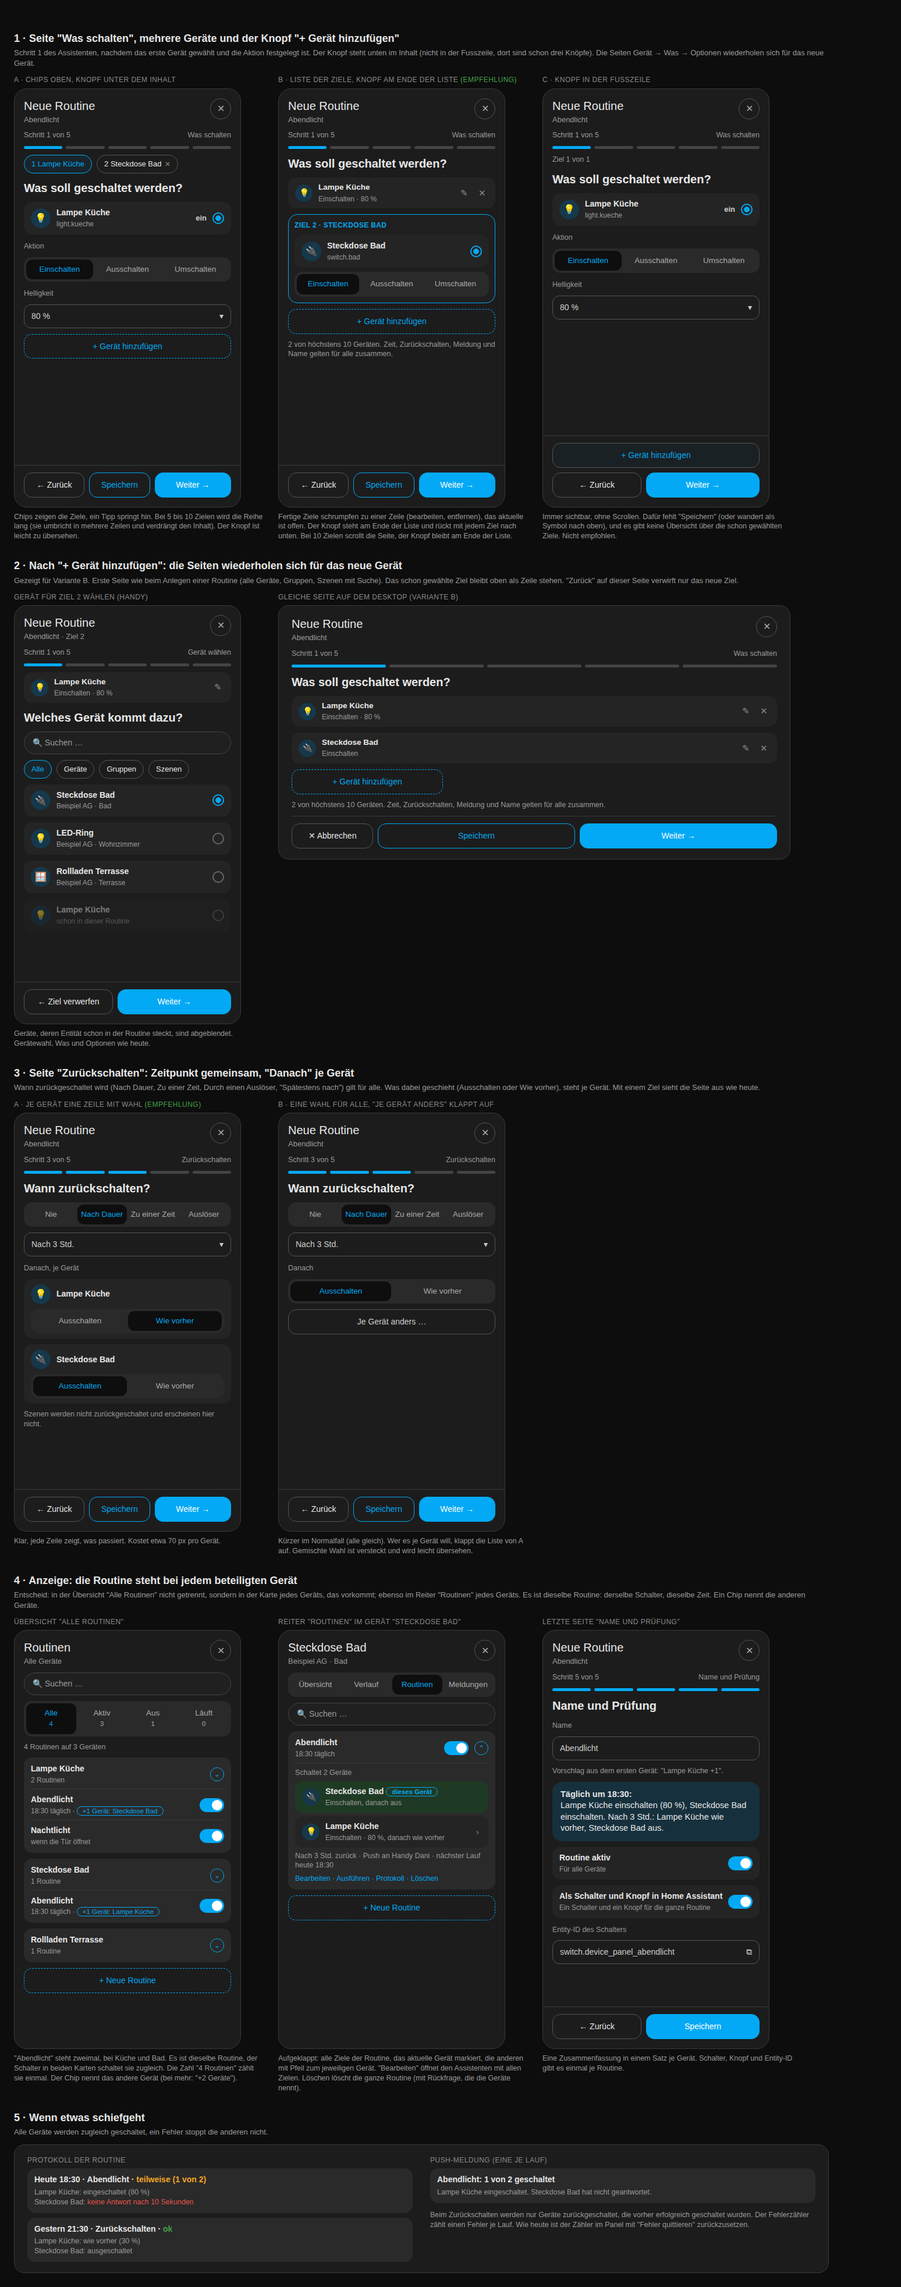
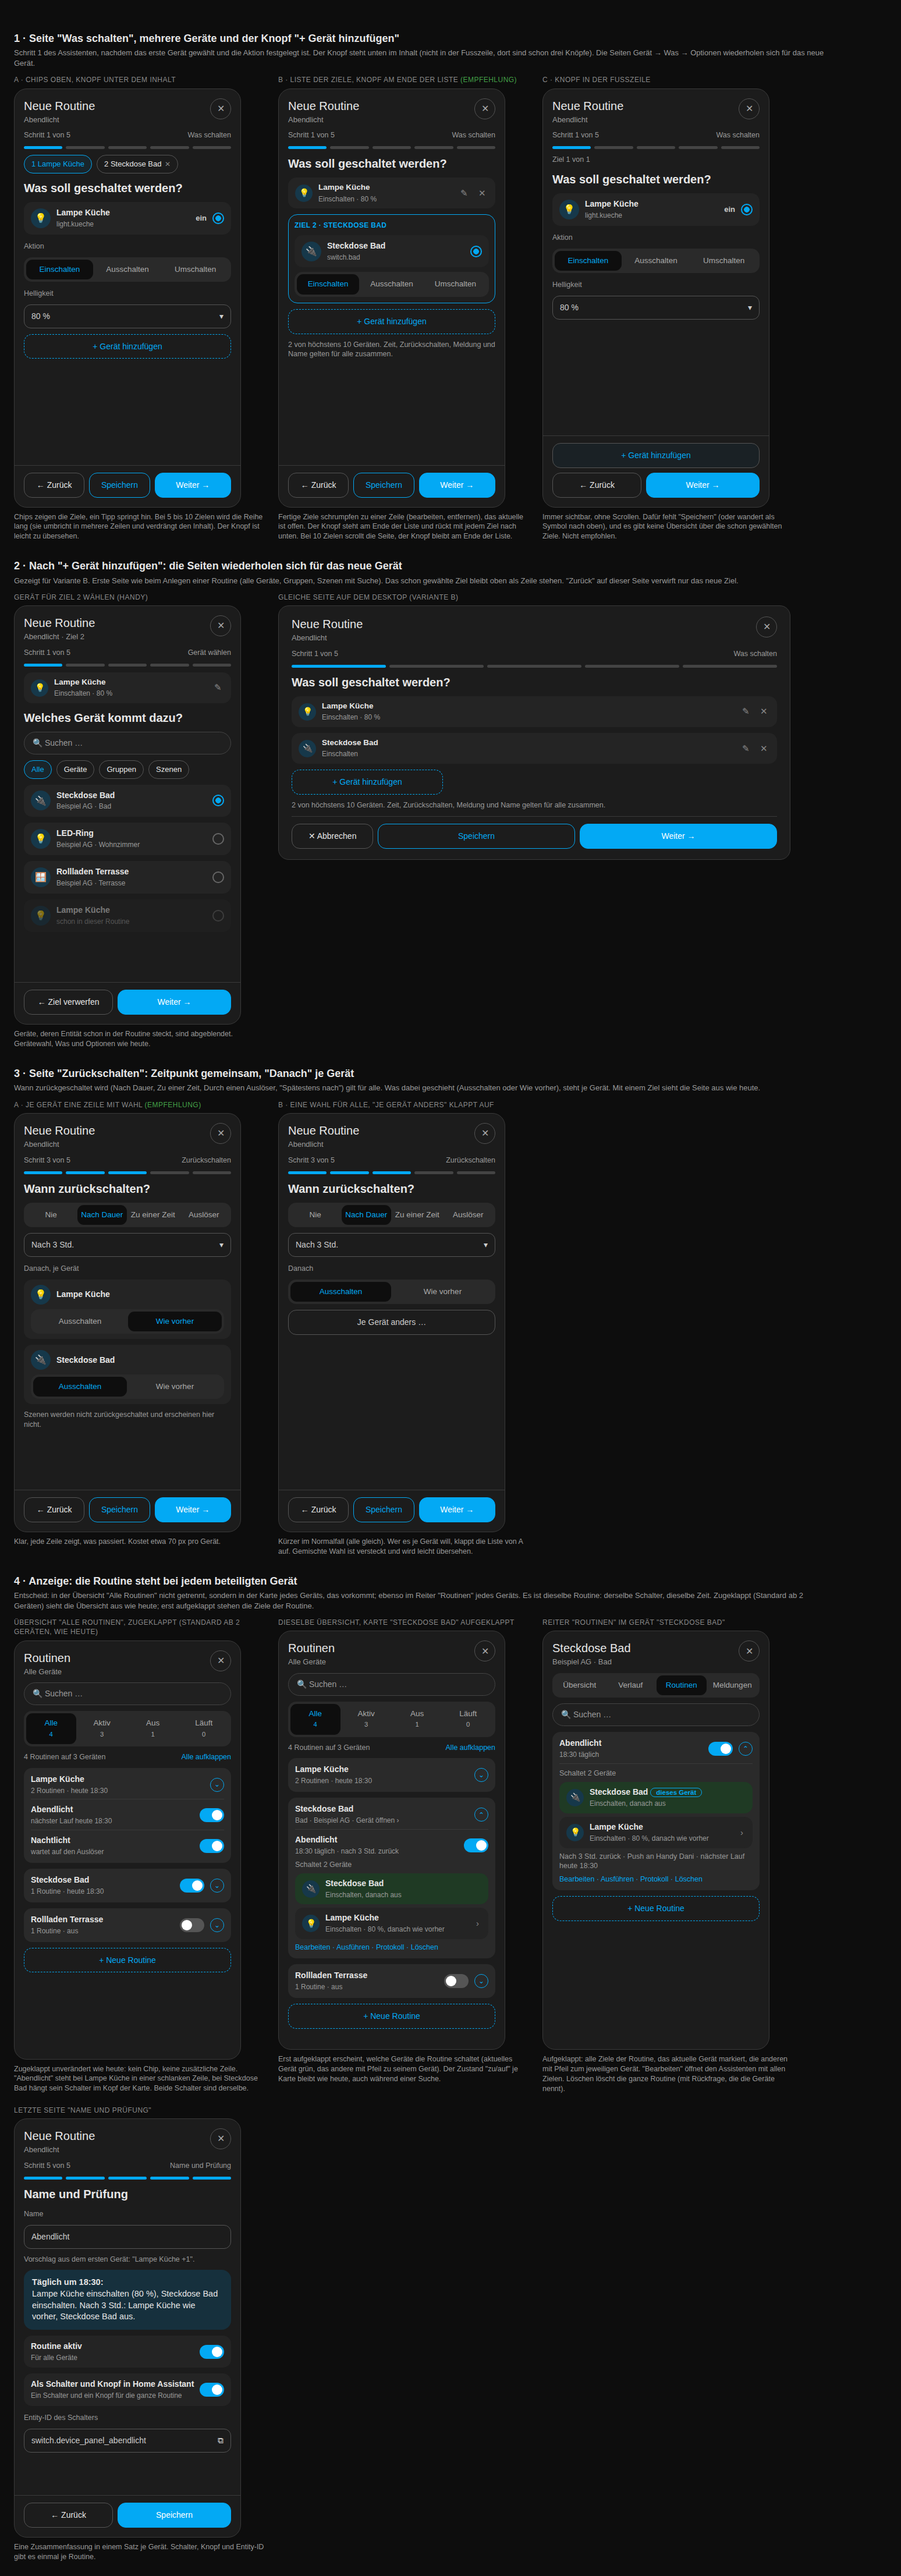
Mockups routine-multi-v1: Übersicht zugeklappt wie heute, Ziele erst aufgeklappt
Claude-Session: https://claude.ai/code/session_01U1q7hu4Br2u4E6fFdEJMgU

diff --git a/docs/mockups/routine-multi-v1/index.html b/docs/mockups/routine-multi-v1/index.html
@@ -138,21 +138,36 @@ h3{margin:2px 0 0;font-size:20px}
 </div>
 
 <h2>4 · Anzeige: die Routine steht bei jedem beteiligten Gerät</h2>
-<p class="sub">Entscheid: in der Übersicht "Alle Routinen" nicht getrennt, sondern in der Karte jedes Geräts, das vorkommt; ebenso im Reiter "Routinen" jedes Geräts. Es ist dieselbe Routine: derselbe Schalter, dieselbe Zeit. Ein Chip nennt die anderen Geräte.</p>
+<p class="sub">Entscheid: in der Übersicht "Alle Routinen" nicht getrennt, sondern in der Karte jedes Geräts, das vorkommt; ebenso im Reiter "Routinen" jedes Geräts. Es ist dieselbe Routine: derselbe Schalter, dieselbe Zeit. Zugeklappt (Standard ab 2 Geräten) sieht die Übersicht aus wie heute; erst aufgeklappt stehen die Ziele der Routine.</p>
 <div class="row">
-<div><div class="cap">Übersicht "Alle Routinen"</div><div class="ph">
+<div><div class="cap">Übersicht "Alle Routinen", zugeklappt (Standard ab 2 Geräten, wie heute)</div><div class="ph">
 <div class="hd"><div><b>Routinen</b><small>Alle Geräte</small></div><div class="x">✕</div></div>
 <div class="srch">🔍 Suchen …</div>
 <div class="seg"><span class="on">Alle<br><small>4</small></span><span>Aktiv<br><small>3</small></span><span>Aus<br><small>1</small></span><span>Läuft<br><small>0</small></span></div>
-<div class="hint">4 Routinen auf 3 Geräten</div>
-<div class="card"><div class="top"><div class="t"><b>Lampe Küche</b><small>2 Routinen</small></div><div class="cv">⌄</div></div>
-<div class="rt"><div class="t"><b>Abendlicht</b><small>18:30 täglich · <span class="pill">+1 Gerät: Steckdose Bad</span></small></div><div class="sw on"></div></div>
-<div class="rt"><div class="t"><b>Nachtlicht</b><small>wenn die Tür öffnet</small></div><div class="sw on"></div></div></div>
-<div class="card"><div class="top"><div class="t"><b>Steckdose Bad</b><small>1 Routine</small></div><div class="cv">⌄</div></div>
-<div class="rt"><div class="t"><b>Abendlicht</b><small>18:30 täglich · <span class="pill">+1 Gerät: Lampe Küche</span></small></div><div class="sw on"></div></div></div>
-<div class="card"><div class="top"><div class="t"><b>Rollladen Terrasse</b><small>1 Routine</small></div><div class="cv">⌄</div></div></div>
+<div style="display:flex;justify-content:space-between" class="hint"><span>4 Routinen auf 3 Geräten</span><span style="color:var(--p)">Alle aufklappen</span></div>
+<div class="card"><div class="top"><div class="t"><b>Lampe Küche</b><small>2 Routinen · heute 18:30</small></div><div class="cv">⌄</div></div>
+<div class="rt"><div class="t"><b>Abendlicht</b><small>nächster Lauf heute 18:30</small></div><div class="sw on"></div></div>
+<div class="rt"><div class="t"><b>Nachtlicht</b><small>wartet auf den Auslöser</small></div><div class="sw on"></div></div></div>
+<div class="card"><div class="top"><div class="t"><b>Steckdose Bad</b><small>1 Routine · heute 18:30</small></div><div class="sw on"></div><div class="cv">⌄</div></div></div>
+<div class="card"><div class="top"><div class="t"><b>Rollladen Terrasse</b><small>1 Routine · aus</small></div><div class="sw"></div><div class="cv">⌄</div></div></div>
 <div class="add">+ Neue Routine</div></div>
-<p class="note">"Abendlicht" steht zweimal, bei Küche und Bad. Es ist dieselbe Routine, der Schalter in beiden Karten schaltet sie zugleich. Die Zahl "4 Routinen" zählt sie einmal. Der Chip nennt das andere Gerät (bei mehr: "+2 Geräte").</p></div>
+<p class="note">Zugeklappt unverändert wie heute: kein Chip, keine zusätzliche Zeile. "Abendlicht" steht bei Lampe Küche in einer schlanken Zeile, bei Steckdose Bad hängt sein Schalter im Kopf der Karte. Beide Schalter sind derselbe.</p></div>
+
+<div><div class="cap">Dieselbe Übersicht, Karte "Steckdose Bad" aufgeklappt</div><div class="ph">
+<div class="hd"><div><b>Routinen</b><small>Alle Geräte</small></div><div class="x">✕</div></div>
+<div class="srch">🔍 Suchen …</div>
+<div class="seg"><span class="on">Alle<br><small>4</small></span><span>Aktiv<br><small>3</small></span><span>Aus<br><small>1</small></span><span>Läuft<br><small>0</small></span></div>
+<div style="display:flex;justify-content:space-between" class="hint"><span>4 Routinen auf 3 Geräten</span><span style="color:var(--p)">Alle aufklappen</span></div>
+<div class="card"><div class="top"><div class="t"><b>Lampe Küche</b><small>2 Routinen · heute 18:30</small></div><div class="cv">⌄</div></div></div>
+<div class="card"><div class="top"><div class="t"><b>Steckdose Bad</b><small>Bad · Beispiel AG · Gerät öffnen ›</small></div><div class="cv" style="transform:rotate(180deg)">⌄</div></div>
+<div class="rt" style="flex-direction:column;align-items:stretch;gap:6px;border-top:1px solid var(--ln)"><div style="display:flex;align-items:center;gap:10px"><div class="t"><b>Abendlicht</b><small>18:30 täglich · nach 3 Std. zurück</small></div><div class="sw on"></div></div>
+<div class="lbl" style="margin:0">Schaltet 2 Geräte</div>
+<div class="mini" style="background:#1f3a24"><div class="ic">🔌</div><div class="t"><b>Steckdose Bad</b><small>Einschalten, danach aus</small></div></div>
+<div class="mini"><div class="ic">💡</div><div class="t"><b>Lampe Küche</b><small>Einschalten · 80 %, danach wie vorher</small></div><span class="a">›</span></div>
+<div class="hint" style="color:var(--p)">Bearbeiten · Ausführen · Protokoll · Löschen</div></div></div>
+<div class="card"><div class="top"><div class="t"><b>Rollladen Terrasse</b><small>1 Routine · aus</small></div><div class="sw"></div><div class="cv">⌄</div></div></div>
+<div class="add">+ Neue Routine</div></div>
+<p class="note">Erst aufgeklappt erscheint, welche Geräte die Routine schaltet (aktuelles Gerät grün, das andere mit Pfeil zu seinem Gerät). Der Zustand "zu/auf" je Karte bleibt wie heute, auch während einer Suche.</p></div>
 
 <div><div class="cap">Reiter "Routinen" im Gerät "Steckdose Bad"</div><div class="ph">
 <div class="hd"><div><b>Steckdose Bad</b><small>Beispiel AG · Bad</small></div><div class="x">✕</div></div>
@@ -167,6 +182,7 @@ h3{margin:2px 0 0;font-size:20px}
 <div class="add">+ Neue Routine</div></div>
 <p class="note">Aufgeklappt: alle Ziele der Routine, das aktuelle Gerät markiert, die anderen mit Pfeil zum jeweiligen Gerät. "Bearbeiten" öffnet den Assistenten mit allen Zielen. Löschen löscht die ganze Routine (mit Rückfrage, die die Geräte nennt).</p></div>
 
+</div><div class="row" style="margin-top:20px">
 <div><div class="cap">Letzte Seite "Name und Prüfung"</div><div class="ph">
 <div class="hd"><div><b>Neue Routine</b><small>Abendlicht</small></div><div class="x">✕</div></div>
 <div class="stp"><span>Schritt 5 von 5</span><span>Name und Prüfung</span></div><div class="bars"><i class="on"></i><i class="on"></i><i class="on"></i><i class="on"></i><i class="on"></i></div>
@@ -181,15 +197,3 @@ h3{margin:2px 0 0;font-size:20px}
 <p class="note">Eine Zusammenfassung in einem Satz je Gerät. Schalter, Knopf und Entity-ID gibt es einmal je Routine.</p></div>
 </div>
 
-<h2>5 · Wenn etwas schiefgeht</h2>
-<p class="sub">Alle Geräte werden zugleich geschaltet, ein Fehler stoppt die anderen nicht.</p>
-<div class="row">
-<div style="grid-column:span 3"><div class="dsk" style="width:1400px;flex-direction:row;gap:30px">
-<div style="flex:1"><div class="cap">Protokoll der Routine</div>
-<div class="card" style="gap:4px"><b>Heute 18:30 · Abendlicht · <span style="color:#f5a524">teilweise (1 von 2)</span></b><small class="hint">Lampe Küche: eingeschaltet (80 %)<br>Steckdose Bad: <span class="bad">keine Antwort nach 10 Sekunden</span></small></div>
-<div class="card" style="gap:4px;margin-top:8px"><b>Gestern 21:30 · Zurückschalten · <span class="good">ok</span></b><small class="hint">Lampe Küche: wie vorher (30 %)<br>Steckdose Bad: ausgeschaltet</small></div></div>
-<div style="flex:1"><div class="cap">Push-Meldung (eine je Lauf)</div>
-<div class="card" style="gap:4px"><b>Abendlicht: 1 von 2 geschaltet</b><small class="hint">Lampe Küche eingeschaltet. Steckdose Bad hat nicht geantwortet.</small></div>
-<p class="note" style="margin-top:12px">Beim Zurückschalten werden nur Geräte zurückgeschaltet, die vorher erfolgreich geschaltet wurden. Der Fehlerzähler zählt einen Fehler je Lauf. Wie heute ist der Zähler im Panel mit "Fehler quittieren" zurückzusetzen.</p></div>
-</div></div>
-</div>

diff --git a/docs/mockups/routine-multi-v1/README.md b/docs/mockups/routine-multi-v1/README.md
@@ -62,6 +62,10 @@ aktiviert und beim Zurückschalten übersprungen.
 - Keine getrennte Karte in der Übersicht "Alle Routinen": Die Routine steht in der Karte jedes Geräts, das in ihr vorkommt, und im
   Reiter "Routinen" jedes dieser Geräte. Es ist dieselbe Routine (ein Schalter, eine Zeit); ein Chip nennt die anderen Geräte
   ("+1 Gerät: Steckdose Bad"). Zahlen in der Übersicht zählen sie einmal.
+- Zu- und Aufklappen bleibt wie heute: Karten sind ab zwei sichtbaren Geräten standardmässig zugeklappt (auch bei einer Suche), mit
+  nur einer Karte offen; jede Karte lässt sich auf- und zuklappen, "Alle aufklappen/zuklappen" bleibt.
+- Zugeklappt ändert sich nichts gegenüber heute: bei einer Routine der Schalter im Kopf, bei mehreren je Routine eine schlanke Zeile
+  (Name, nächster Lauf, Schalter). Kein Chip, keine zusätzliche Angabe; eine Mehrziel-Routine sieht dort aus wie jede andere.
 - Aufgeklappt zeigt die Routine alle Ziele (das aktuelle Gerät markiert, die anderen mit Pfeil zu ihrem Gerät).
 - Löschen löscht die ganze Routine, die Rückfrage nennt die Geräte.
 - Protokoll: Titel der Routine, in der Spur ein Schritt je Ziel.
